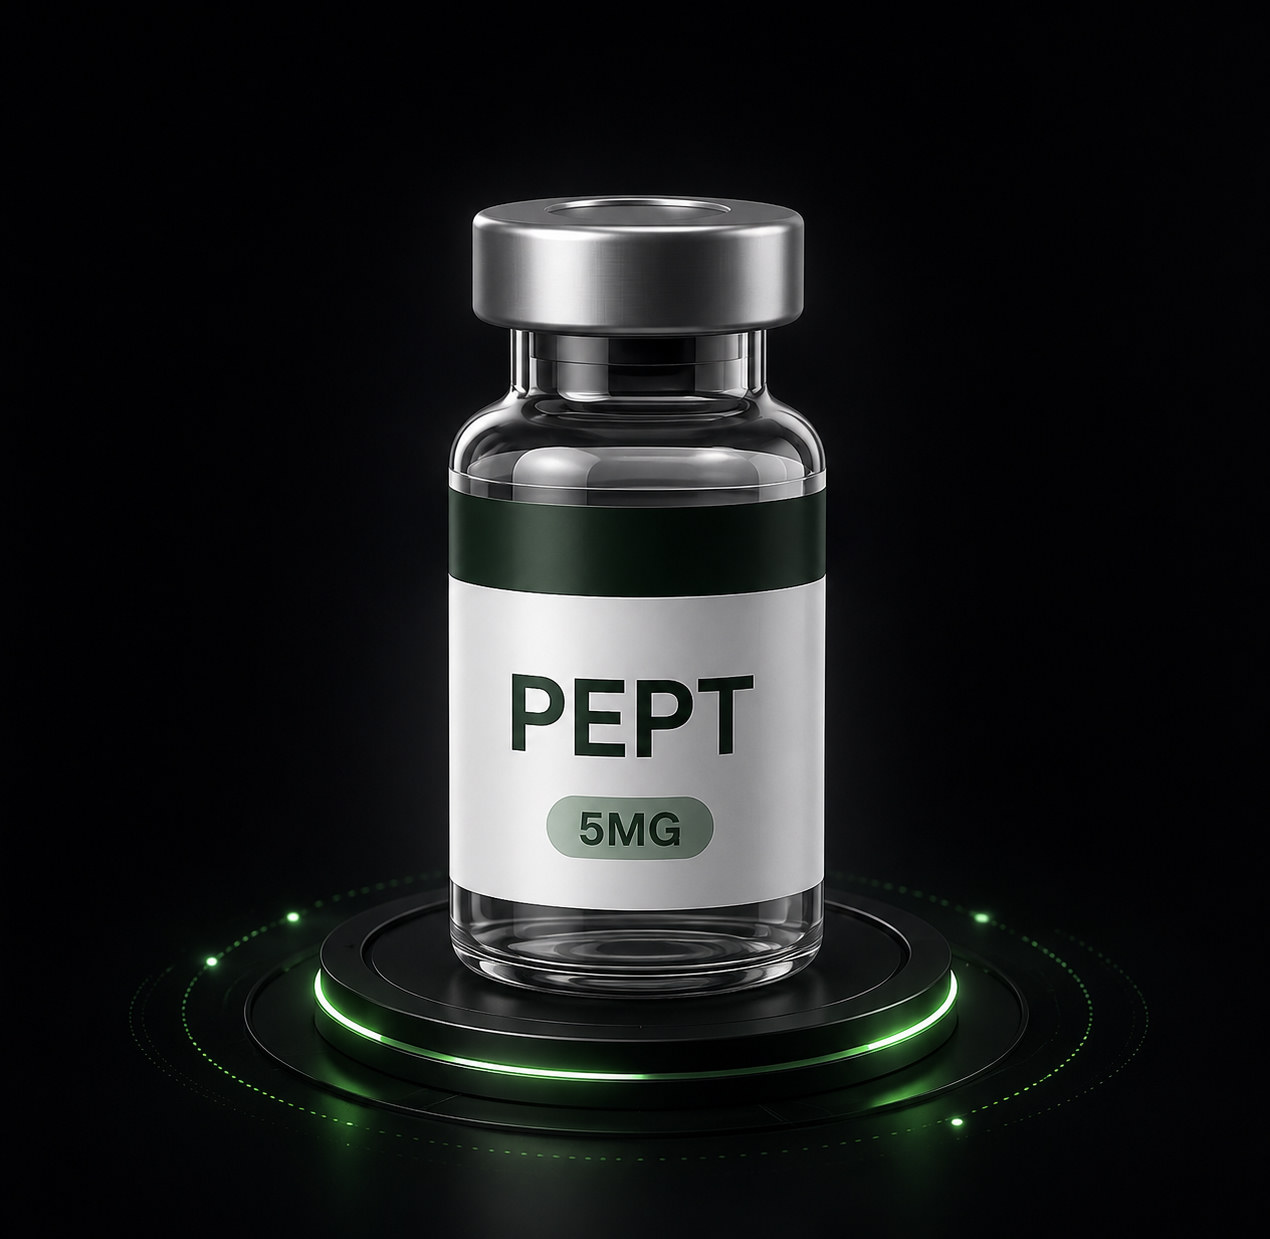
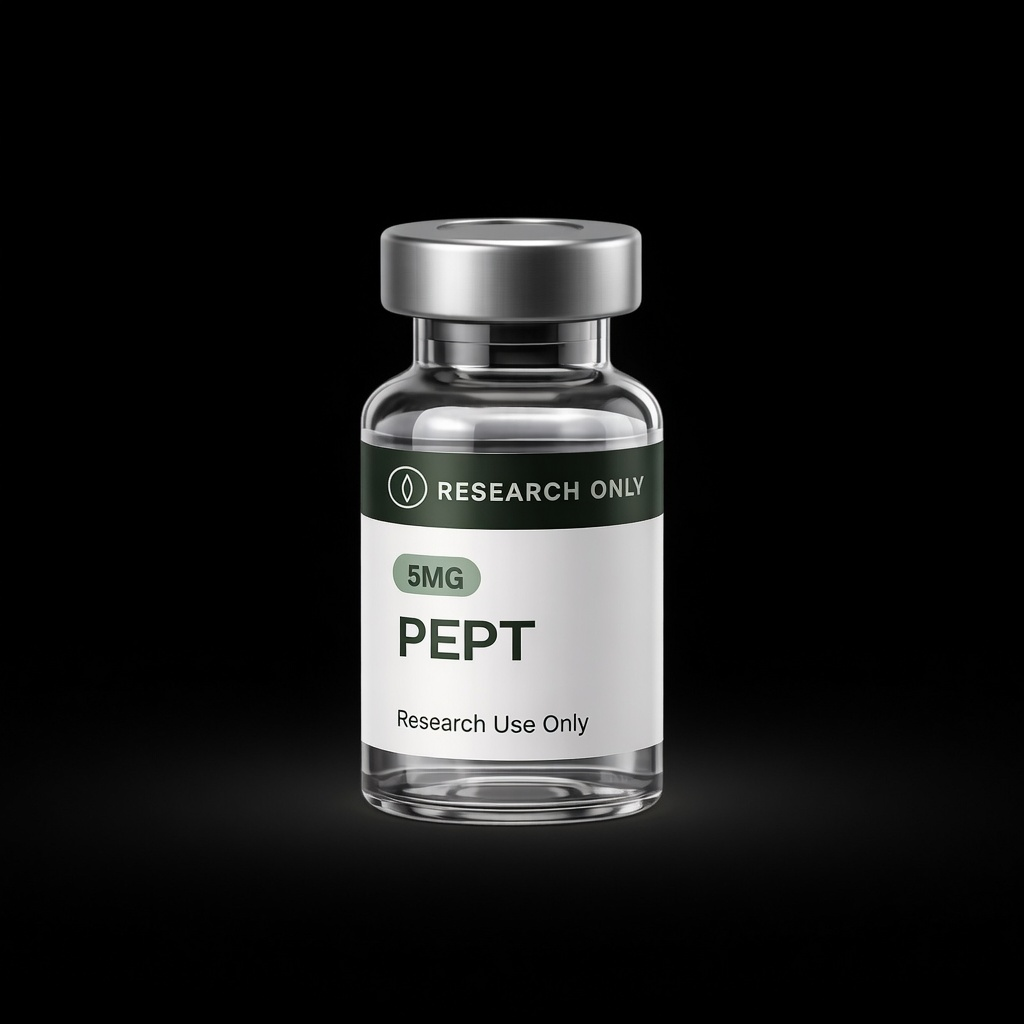
Update trade hero vial to PEPT Research Only product image.
Static photo on black panel background; no 3D or rotation.

diff --git a/frontend/src/components/VialHero.tsx b/frontend/src/components/VialHero.tsx
@@ -3,12 +3,12 @@
 export function VialHero({ symbol }: { symbol: string }) {
   return (
     <div className="relative flex min-h-[240px] flex-col overflow-hidden rounded-xl border border-border bg-panel">
-      <div className="relative z-10 flex flex-1 items-center justify-center bg-black p-4">
+      <div className="relative z-10 flex flex-1 items-center justify-center bg-black p-3">
         {/* eslint-disable-next-line @next/next/no-img-element */}
         <img
           src="/pept-vial.jpg"
           alt={`${symbol} research vial`}
-          className="max-h-[220px] w-auto max-w-full object-contain"
+          className="max-h-[240px] w-auto max-w-full object-contain"
         />
       </div>
       <div className="relative z-10 border-t border-border px-3 py-2 text-center">